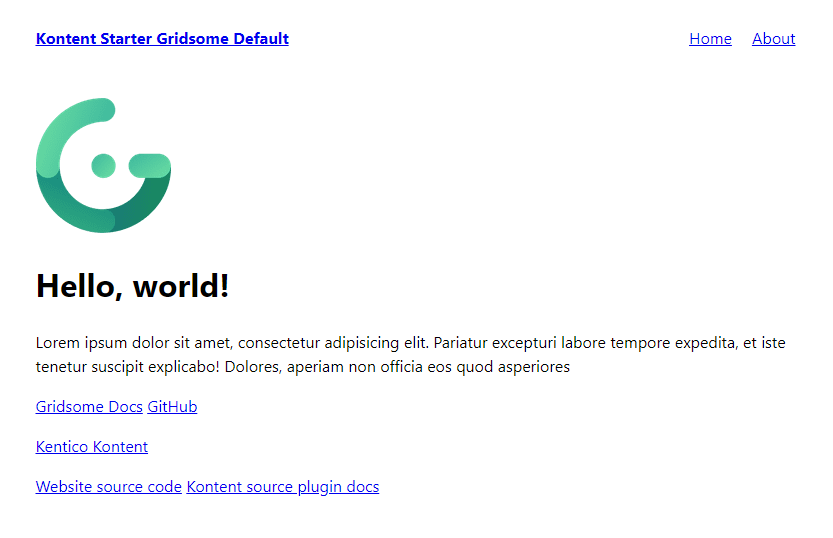
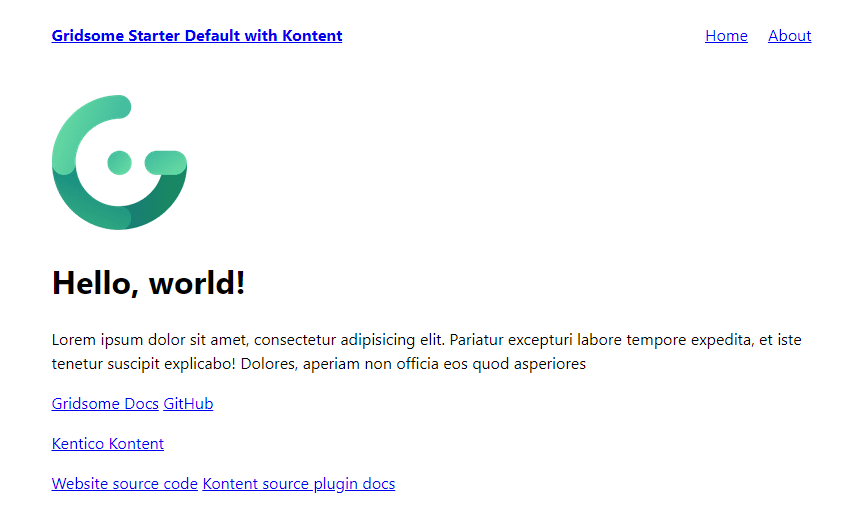
change repo name

diff --git a/gridsome.config.js b/gridsome.config.js
@@ -6,7 +6,7 @@
 
 module.exports = {
   runtimeCompiler: true,
-  siteName: 'Kontent Starter Gridsome Default',
+  siteName: 'Gridsome Starter Default with Kontent',
   plugins: [
     {
       use: '@meeg/gridsome-source-kentico-kontent',

diff --git a/README.md b/README.md
@@ -1,10 +1,10 @@
 # Gridsome Starter Kontent Lumen
 
-[![GitHub license](https://img.shields.io/badge/license-MIT-blue.svg)](https://raw.githubusercontent.com/Simply007/kontent-starter-gridsome-default/master/LICENSE)
+[![GitHub license](https://img.shields.io/badge/license-MIT-blue.svg)](https://raw.githubusercontent.com/Simply007/gridsome-starter-default-kontent/master/LICENSE)
 [![Stack Overflow](https://img.shields.io/badge/Stack%20Overflow-ASK%20NOW-FE7A16.svg?logo=stackoverflow&logoColor=white)](https://stackoverflow.com/tags/kentico-cloud)
-[![Live demo](https://img.shields.io/badge/-Live%20Demo-brightgreen.svg)](https://kontent-starter-gridsome-default.netlify.app/)
+[![Live demo](https://img.shields.io/badge/-Live%20Demo-brightgreen.svg)](https://gridsome-starter-default-kontent.netlify.app/)
 
-[![Netlify Status](https://api.netlify.com/api/v1/badges/f547d859-c6df-43fb-a936-97f7744cb2aa/deploy-status)](https://app.netlify.com/sites/kontent-starter-gridsome-default/deploys)
+[![Netlify Status](https://api.netlify.com/api/v1/badges/f547d859-c6df-43fb-a936-97f7744cb2aa/deploy-status)](https://app.netlify.com/sites/gridsome-starter-default-kontent/deploys)
 
 Bare-bones starter for [Gridsome](https://github.com/gridsome/gridsome). Basically clone of the [Default starter for Gridsome](https://github.com/gridsome/gridsome-starter-default) utilizing [Kentico Kontent](https://kontent.ai) as a data source vie [Gridsome source plugin for Kontent](https://gridsome.org/plugins/@meeg/gridsome-source-kentico-kontent).
 
@@ -70,6 +70,6 @@ npm run build
 
 Netlify can run in any frontend web environment, but the quickest way to try it out is by running it on a pre-configured starter site with Netlify. Use the button below to build and deploy your own copy of the repository:
 
-[![Deploy to Netlify](https://www.netlify.com/img/deploy/button.svg)](https://app.netlify.com/start/deploy?repository=https://github.com/Simply007/kontent-starter-gridsome-default)
+[![Deploy to Netlify](https://www.netlify.com/img/deploy/button.svg)](https://app.netlify.com/start/deploy?repository=https://github.com/Simply007/gridsome-starter-default-kontent)
 
 After clicking that button, you’ll authenticate with GitHub and choose a repository name. Netlify will then automatically create a repository in your GitHub account with a copy of the files from the template. Next, it will build and deploy the new site on Netlify, bringing you to the site dashboard when the build is complete. Next, you’ll need to set up Netlify’s Identity service to authorize users to log in to the CMS.
